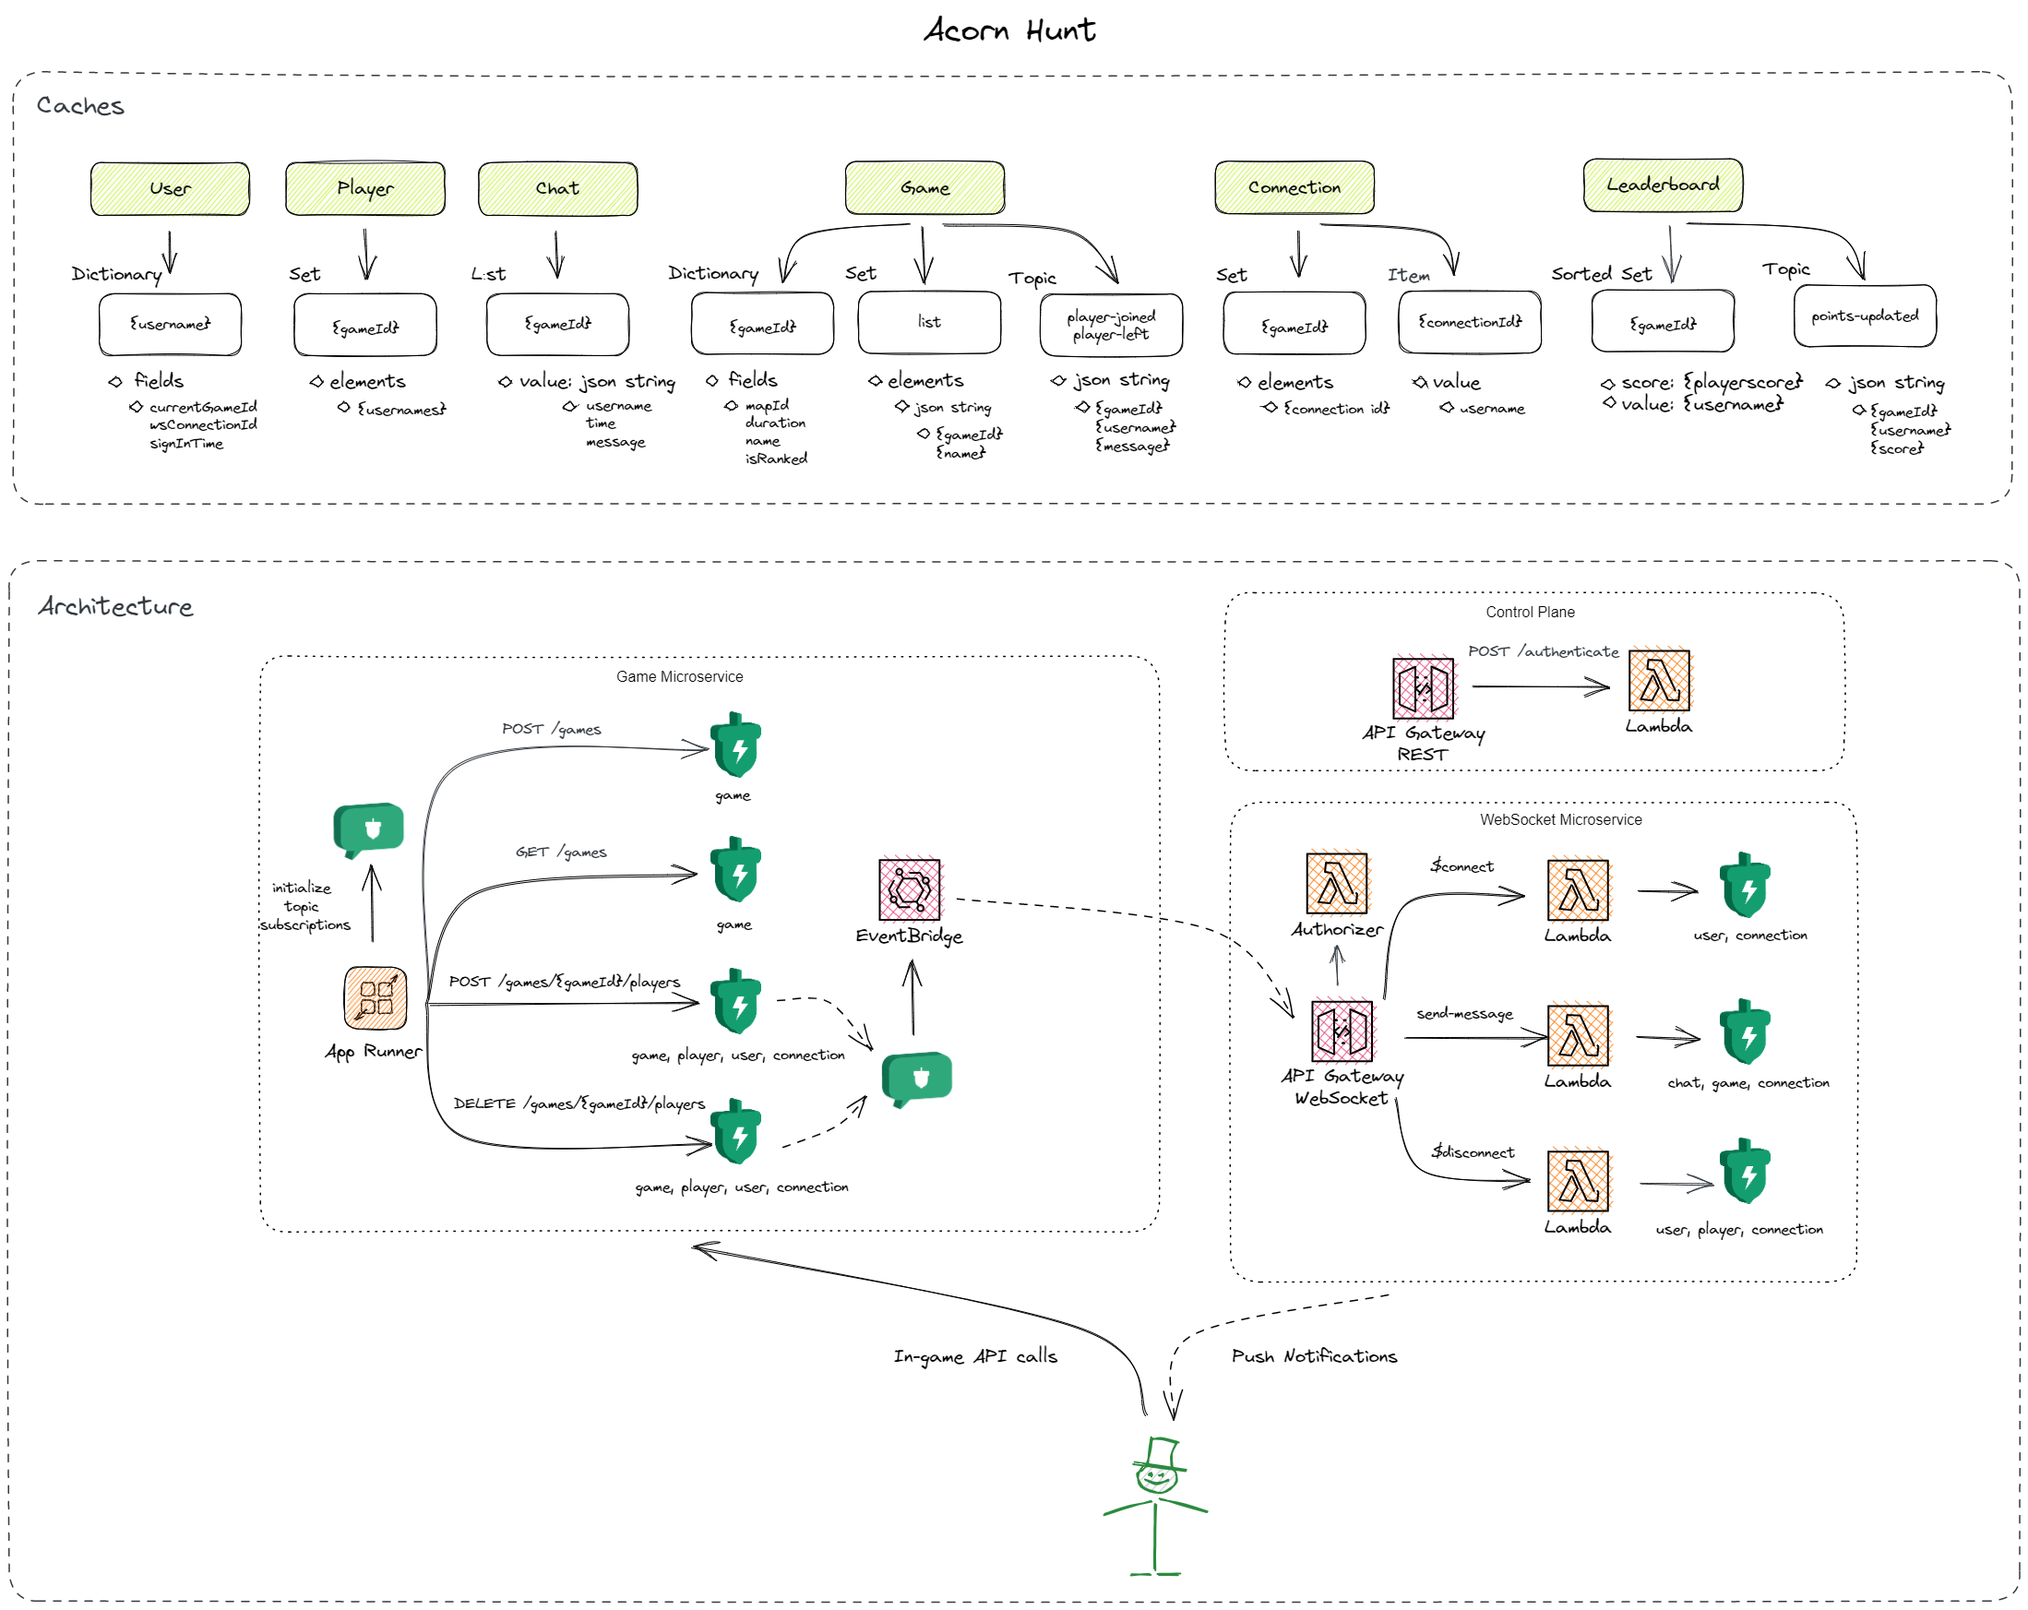
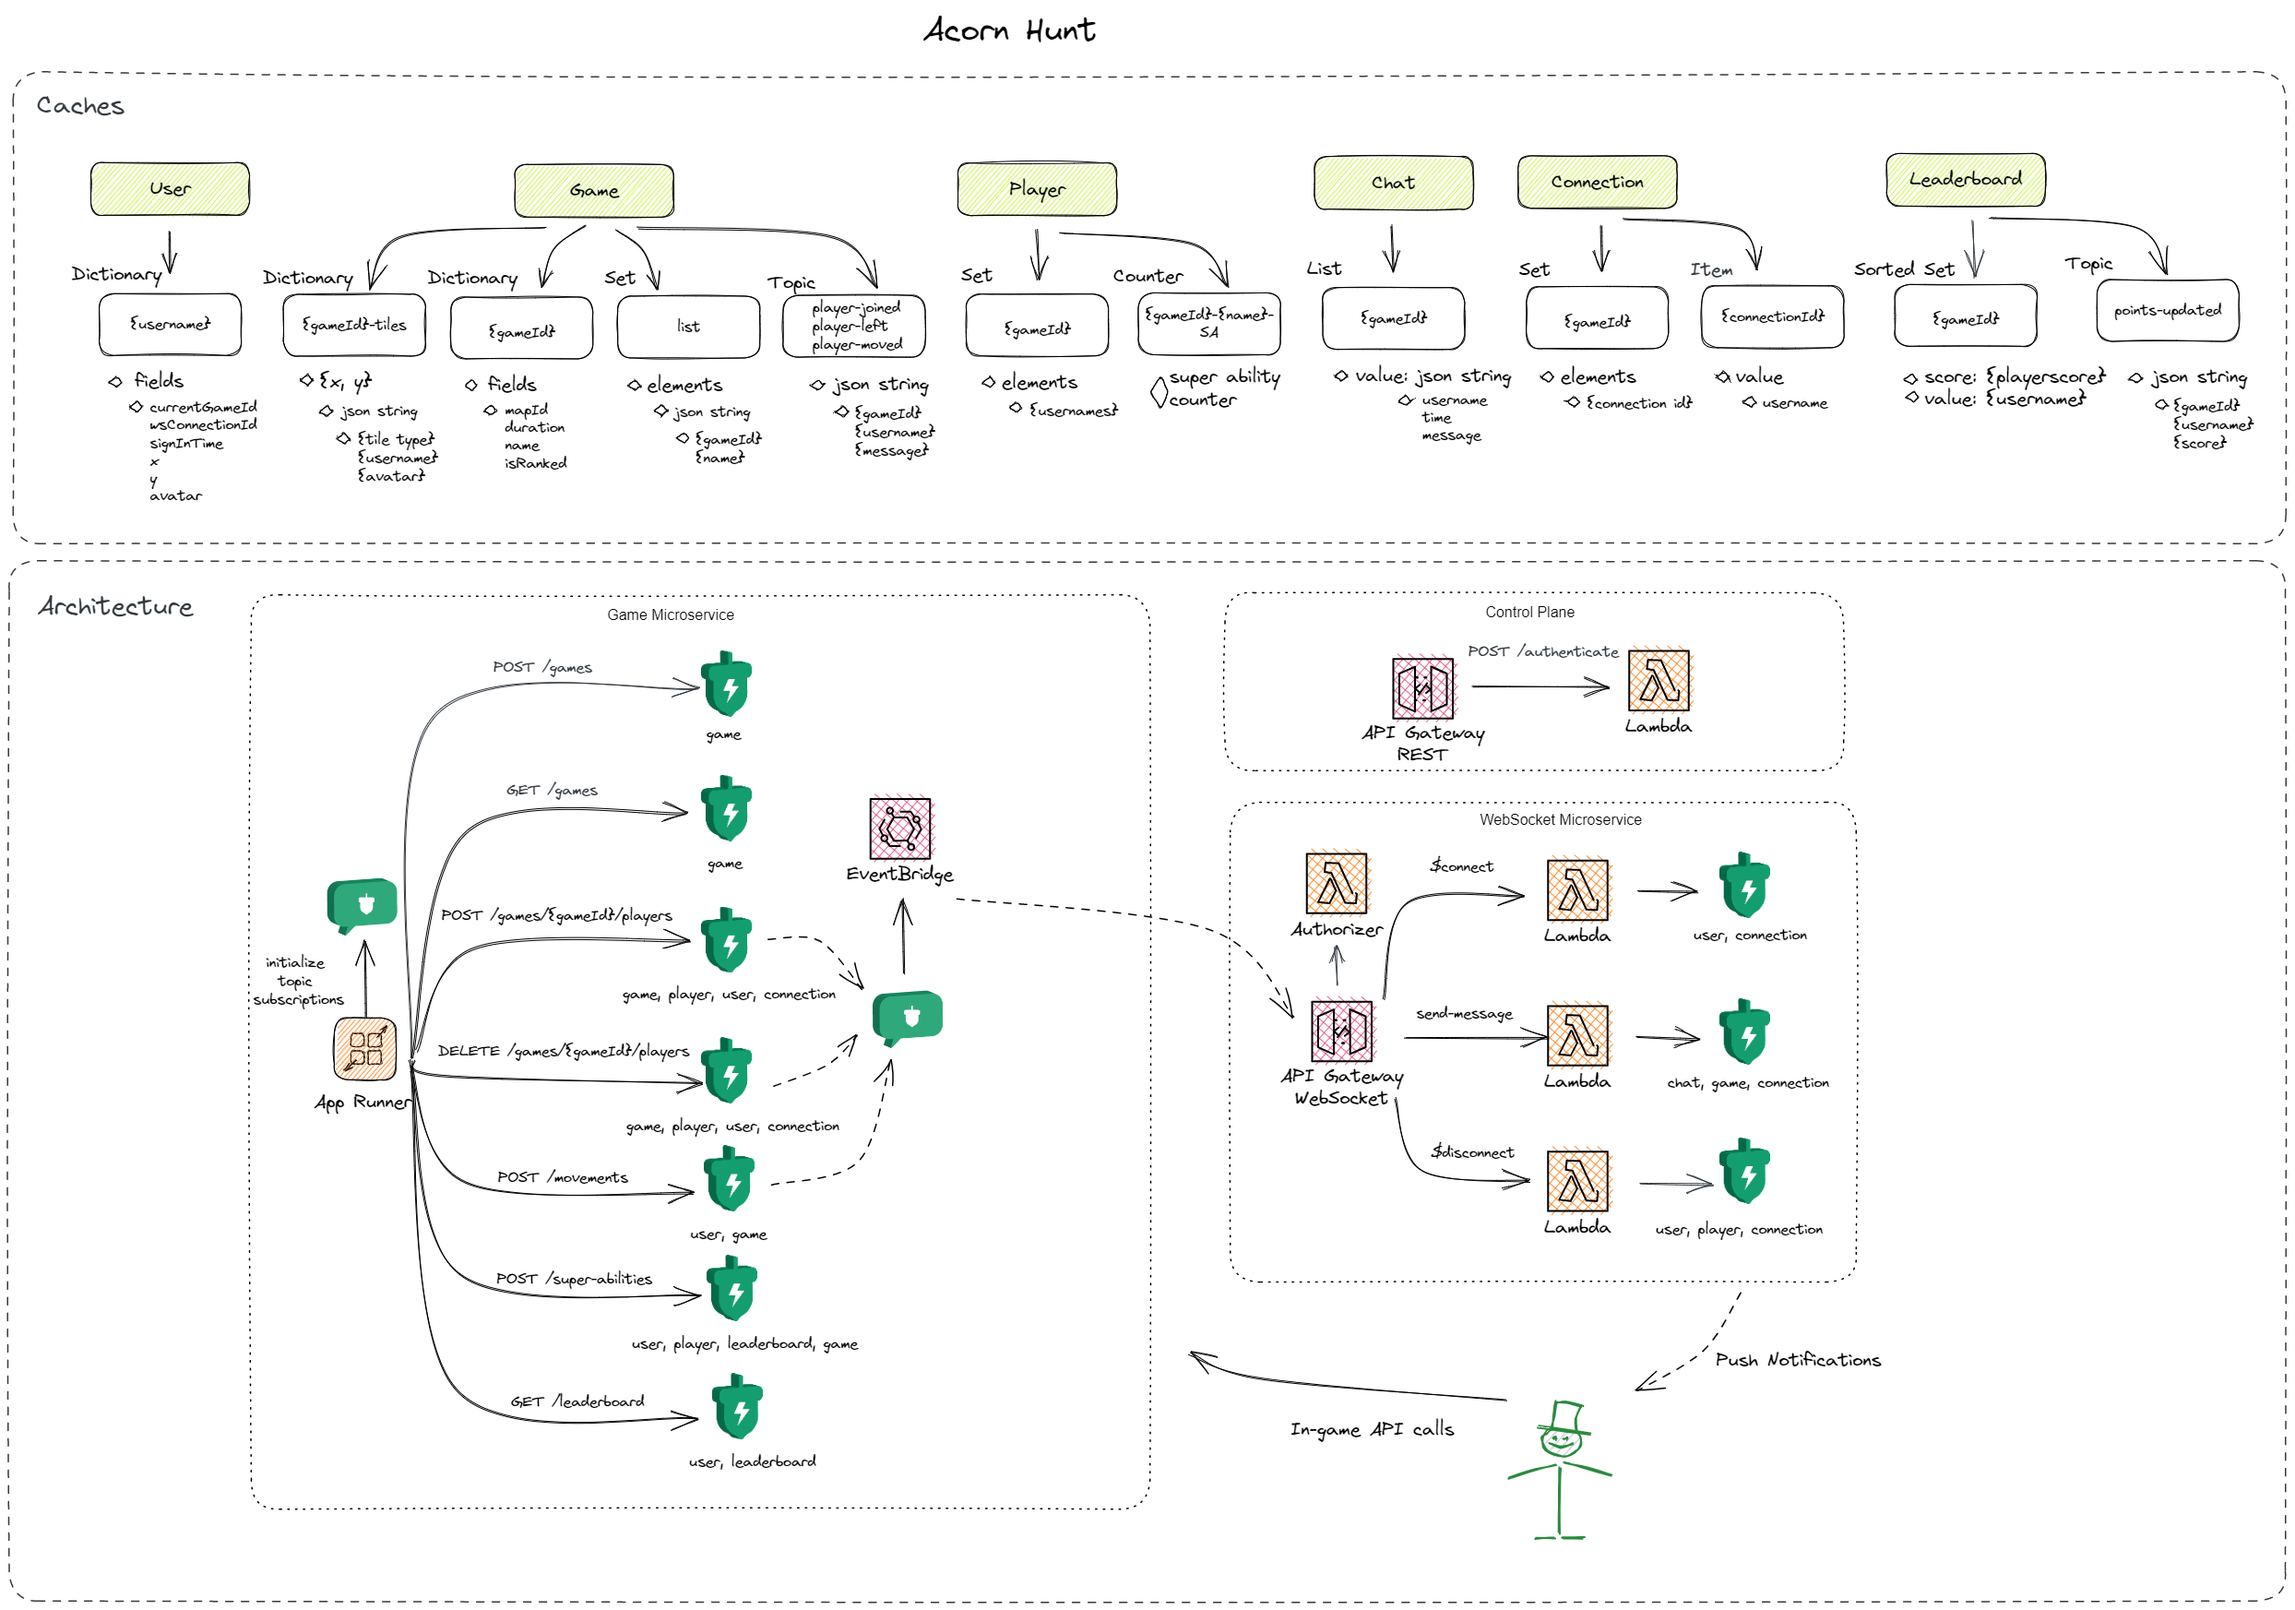
Documentation updates

diff --git a/src/controllers/superability.js b/src/controllers/superability.js
@@ -13,12 +13,12 @@ const MAX_SUPER_ABILITIES = 5;
  * @returns {integer} - The new amount of super ability uses
  */
 const increase = async (gameId, username, count) => {
-  const cacheClient = await getCacheClient(['super-abilities', 'leaderboard']);
+  const cacheClient = await getCacheClient(['player', 'leaderboard', 'game']);
 
-  const incrementResponse = await cacheClient.increment('super-abilities', `${gameId}-${username}`, count);
+  const incrementResponse = await cacheClient.increment('player', `${gameId}-${username}-SA`, count);
   let remaining = incrementResponse.value;
   if (incrementResponse.value > MAX_SUPER_ABILITIES) {
-    await cacheClient.set('super-abilities', `${gameId}-${username}`, `${MAX_SUPER_ABILITIES}`);
+    await cacheClient.set('player', `${gameId}-${username}-SA`, `${MAX_SUPER_ABILITIES}`);
     count = count - (incrementResponse.value - MAX_SUPER_ABILITIES);
     remaining = MAX_SUPER_ABILITIES;
   }
@@ -39,9 +39,9 @@ const increase = async (gameId, username, count) => {
  * @returns {{success: boolean, remaining: integer}} - An object indicating if the operation was successful and the number of remaining uses 
  */
 const decrease = async (gameId, username) => {
-  const cacheClient = await getCacheClient(['super-abilities', 'leaderboard']);
+  const cacheClient = await getCacheClient(['player', 'leaderboard', 'game']);
 
-  const decreaseResponse = await cacheClient.increment('super-abilities', `${gameId}-${username}`, -1);
+  const decreaseResponse = await cacheClient.increment('player', `${gameId}-${username}-SA`, -1);
   if (decreaseResponse.value < 0) {
     return { success: false };
   }

diff --git a/src/services/momento.js b/src/services/momento.js
@@ -1,5 +1,5 @@
 
-import { CacheClient, TopicClient, EnvMomentoTokenProvider, Configurations, CredentialProvider } from '@gomomento/sdk';
+import { CacheClient, TopicClient, EnvMomentoTokenProvider, Configurations } from '@gomomento/sdk';
 import getSecret from './secrets.js';
 
 let topicClient;
